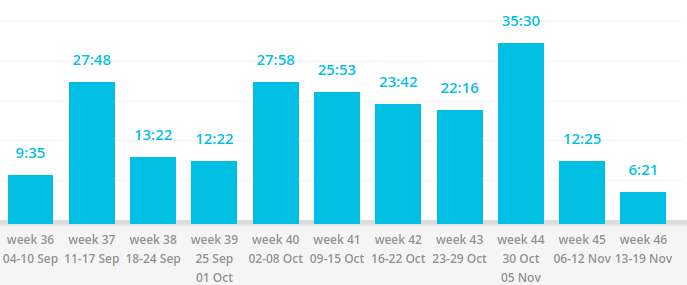
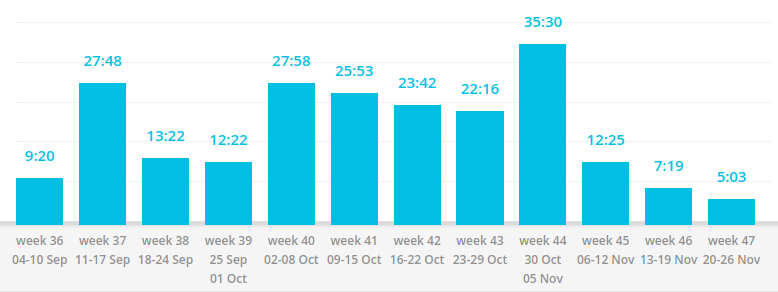
Update toggl stats

diff --git a/media/postmortem.md b/media/postmortem.md
@@ -193,21 +193,21 @@ Fun fact: MDN extensions docs are better than google's.
 
 1. The mindset is bearable as long as you **strictly** limit its duration. I didn't. It lead me to procrastination. Toggl hours went down, that raised the procrastination alarm. I promptly wrapped the development and published the extension. (That's why I've published version 0.7.2 instead of planned 1.0)
 
+Thanks for reading.
+
 ## Toggl Stats
 
-The tool helped that allowed me become a developer.
+The tool that helped me become a developer.
 
 | Action/tag   | Hours |
 | -----------  | :---: |
 | js           | 177   |
-| html/css     | 2     |
+| html/css     | 5     |
 | js, html/css | 11    |
 | design       | 14    |
 | publishing   | 4     |
-| postmortem   | 8     |
-| total        | 217   |
+| postmortem   | 12    |
+| total        | 223   |
 
 Detailed report:
 ![Media promo image](toggl_report.png)
-
-It was a hell of a ride.
